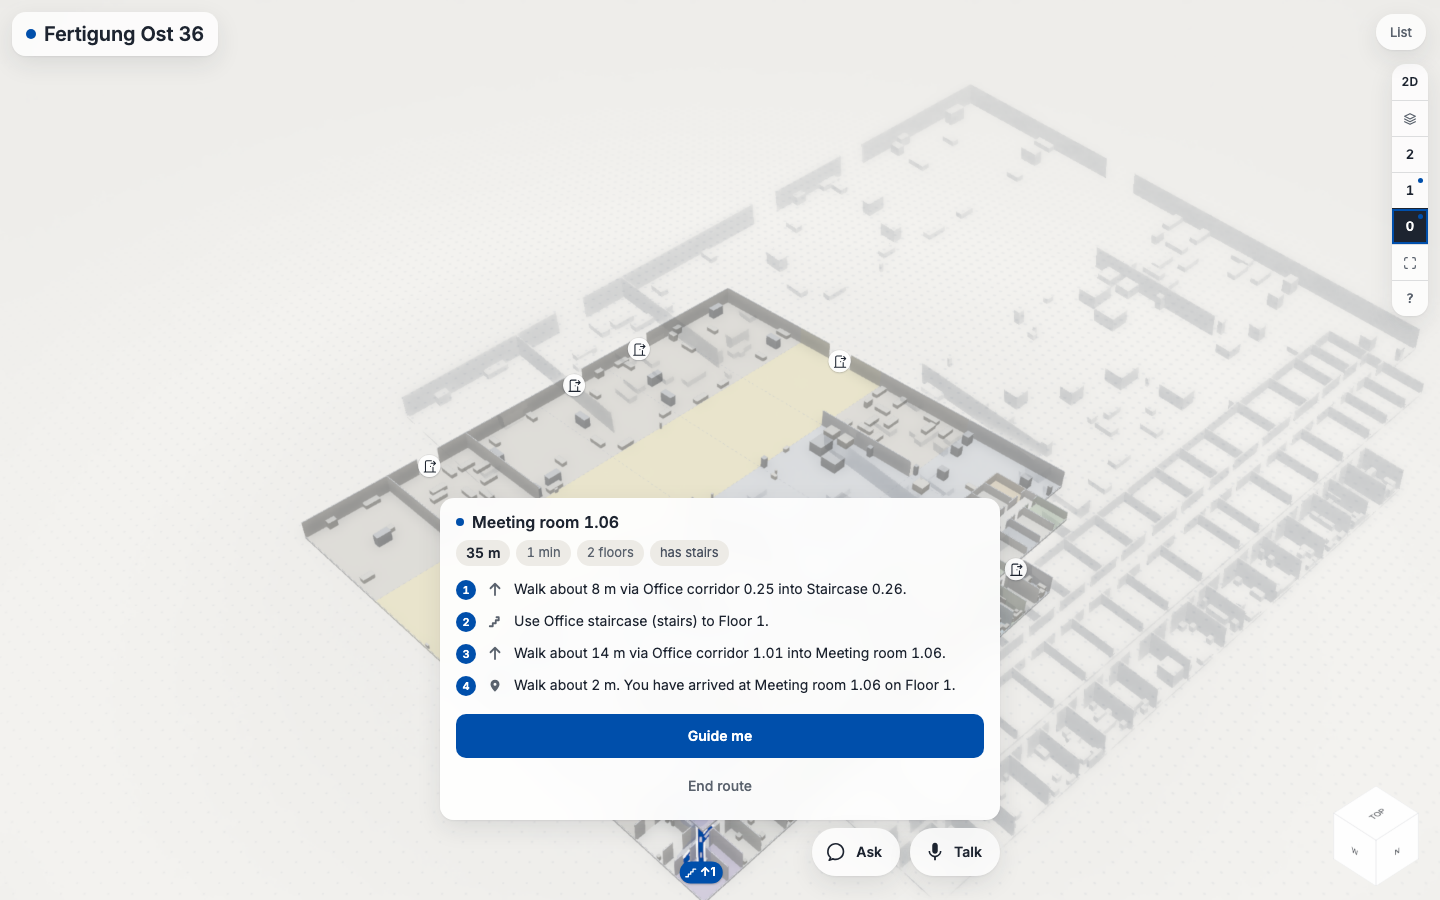
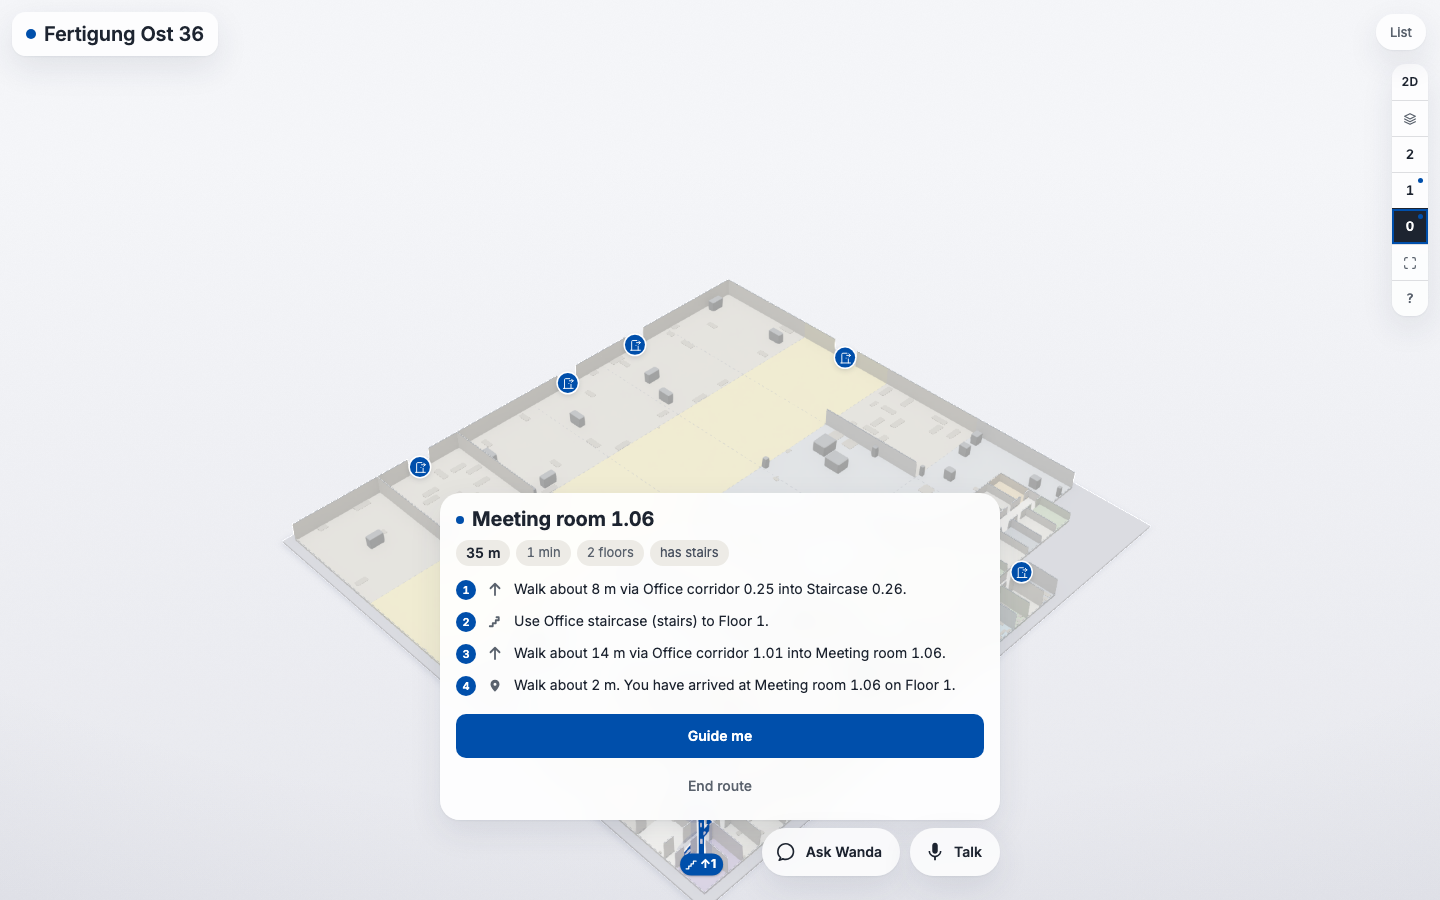
Labels as halo text and 3D POI pins, softer cards; skip studio extras on software GL
- 3D room names are halo text without a box; only marked and tapped rooms keep a pill
- 3D POIs: 10 px coloured dot when far, 20 px badge with name from the mid tier
- Soft shadow lies on the top route floor; software WebGL keeps the cheap lights and no baked shadow
- Larger card radius, diffuse float shadow, bigger route title; phone close button as grey circle
- ui_shots.py also captures the phone in 3D; refresh twin/docs/ui-after

diff --git a/twin/src/scene/Labels.tsx b/twin/src/scene/Labels.tsx
@@ -26,8 +26,15 @@ const ZONE_COUNT = 6;
 const FIT_OVERFLOW = 1.15; // a name may run 15 % past its room's width
 const CHAR_PX = 7.0; // average glyph width of the 12 px semibold label font (Inter)
 const LABEL_H_PX = 16;
-const PILL_PAD_PX = 8; // horizontal padding of a pill label (each side); 3D labels and marked rooms are pills
+const PILL_PAD_PX = 8; // horizontal padding of a pill label (each side); marked and tapped rooms are pills
 const PILL_H_PX = 20; // a pill's height (16 px line plus 2 px padding above and below)
+const HALO_PAD_PX = 2; // 3D room names are halo text (no box): the halo reaches about 2 px past the glyphs
+/** 3D points of interest (Apple Maps style): a small coloured dot in the overview, from the mid tier on a round badge
+ * with its glyph and the name beside it (POI_TEXT_KINDS only). Sizes must match .poi-pin in poiIcons.css. */
+const POI_DOT_PX = 10;
+const POI_BADGE_3D_PX = 20;
+const POI_TEXT_GAP_PX = 4;
+const POI_TEXT_KINDS: ReadonlySet<PoiKind> = new Set(["lift", "stairs", "toilet"]);
 const GAP_PX = 4; // free space kept around every label and badge
 const THING_LIFT_PX = 9; // a thing's name sits just above its shape, never on it
 const ROUTE_CLEAR_PX = 7; // half the route line width plus a margin: room names never sit on the route
@@ -402,16 +409,22 @@ export function Labels({ floor, model, y, limit, flat = false }: Props) {
       if (item.kind === "door" || item.kind === "tag") continue; // doors after the second lines, below
       if ((marks.has(item.id) && !(item.kind === "poi" && item.closed)) || replaced.has(item.id)) continue; // a closed glyph always shows
       const text = item.kind === "room" ? item.space.name : item.kind === "thing" ? item.asset.name : item.kind === "area" ? item.area.name : "";
-      // 3D: every label is a pill (padding and a taller box); 2D: plain halo text on the plan
-      const pillPad = flat || item.kind === "poi" ? 0 : PILL_PAD_PX;
-      const halfW = (item.kind === "poi" ? POI_PX / 2 : (text.length * (item.kind === "area" ? AREA_CHAR_PX : CHAR_PX)) / 2) + pillPad;
-      const halfH = item.kind === "poi" ? POI_PX / 2 : item.kind === "area" ? AREA_H_PX / 2 + (flat ? 0 : 2) : flat ? LABEL_H_PX / 2 : PILL_H_PX / 2;
+      // Halo text in both views (3D keeps a 2 px margin for the halo); 3D symbols are a dot or a badge with a name.
+      const pillPad = flat || item.kind === "poi" ? 0 : HALO_PAD_PX;
+      const poi3d = !flat && item.kind === "poi" ? poiLayout3d(item, tier) : null;
+      const halfW = poi3d ? poi3d.halfW : (item.kind === "poi" ? POI_PX / 2 : (text.length * (item.kind === "area" ? AREA_CHAR_PX : CHAR_PX)) / 2) + pillPad;
+      const halfH = poi3d ? poi3d.size / 2 : item.kind === "poi" ? POI_PX / 2 : item.kind === "area" ? AREA_H_PX / 2 + (flat ? 0 : 2) : LABEL_H_PX / 2;
       // An area name may also move up or down a little (inside the area) to make way for a symbol.
       const shifts = item.kind === "area" ? [0, AREA_SHIFT_PX, -AREA_SHIFT_PX] : [0];
       for (const shift of shifts) {
         const point: Point = shift ? [item.point[0], item.point[1] - shift * scale] : item.point;
         if (item.kind === "area" && shift && !item.area.polygons.some((polygon) => insidePolygon(point, polygon))) continue;
         const box = boxOf(point, halfW, halfH, item.kind === "thing" ? THING_LIFT_PX : 0);
+        if (poi3d) {
+          // the badge sits on the point, its name to the right: shift the box so it covers both and nothing else
+          box.x0 += poi3d.shift;
+          box.x1 += poi3d.shift;
+        }
         if (kept.some((other) => overlaps(box, other))) continue;
         if ((item.kind === "room" || item.kind === "area") && selectedPx && boxOnPolygon(box, selectedPx)) continue;
         if ((item.kind === "room" || item.kind === "area" || (item.kind === "thing" && !item.landmark)) && onRoute(box)) continue; // landmarks keep their name on the route
@@ -507,9 +520,13 @@ export function Labels({ floor, model, y, limit, flat = false }: Props) {
           </Html>
         ) : (
           <Html key={`poi-${item.id}`} position={[item.point[0], 0, -item.point[1]]} center zIndexRange={[3, 0]} style={{ pointerEvents: "none" }}>
-            <div className="zoom-fade" data-zoom-kind={`poi-${item.poi}`} data-poi-space={item.id}>
-              <PoiBadge kind={item.poi} title={item.title} closed={item.closed} />
-            </div>
+            {flat ? (
+              <div className="zoom-fade" data-zoom-kind={`poi-${item.poi}`} data-poi-space={item.id}>
+                <PoiBadge kind={item.poi} title={item.title} closed={item.closed} />
+              </div>
+            ) : (
+              <PoiPin item={item} tier={tier} />
+            )}
           </Html>
         ),
       )}
@@ -544,5 +561,26 @@ function RoomLabel({ item, mark, flat, selected }: { item: Extract<Item, { kind:
         {item.space.name}
       </div>
     </Html>
+  );
+}
+
+/** 3D symbol layout: dot (far) or badge (mid, near), and the name beside the badge for the sought-after kinds. `halfW`
+ * and `shift` describe the collision box relative to the point (badge centred on it, name to the right). */
+function poiLayout3d(item: Extract<Item, { kind: "poi" }>, tier: MapTier): { size: number; text: string; halfW: number; shift: number } {
+  const badge = tier !== "far" || item.closed;
+  const size = badge ? POI_BADGE_3D_PX : POI_DOT_PX;
+  const text = badge && !item.closed && POI_TEXT_KINDS.has(item.poi) && item.title ? item.title : "";
+  const textW = text ? POI_TEXT_GAP_PX + text.length * CHAR_PX : 0;
+  return { size, text, halfW: (size + textW) / 2, shift: textW / 2 };
+}
+
+/** A 3D point of interest: a coloured dot, or a round badge with its glyph and the name beside it (Apple Maps style). */
+function PoiPin({ item, tier }: { item: Extract<Item, { kind: "poi" }>; tier: MapTier }) {
+  const { size, text } = poiLayout3d(item, tier);
+  return (
+    <div className={`poi-pin poi-pin-${item.poi} ${size === POI_DOT_PX ? "poi-pin-dot" : ""} zoom-fade`} data-zoom-kind={`poi-${item.poi}`} data-poi-space={item.id}>
+      <PoiBadge kind={item.poi} title={item.title} closed={item.closed} />
+      {text && <span className="label label-halo poi-pin-name">{text}</span>}
+    </div>
   );
 }

diff --git a/twin/src/scene/Scene.tsx b/twin/src/scene/Scene.tsx
@@ -17,7 +17,7 @@ import { OpeningMarks } from "./OpeningMarks";
 import { RouteLine } from "./RouteLine";
 import { FloorOutline, floorLayout, floorRoles, routeFloorIds } from "./floorVisibility";
 import { Things } from "./Things";
-import { Plinth, StudioLight, StudioShadows } from "./Studio";
+import { Plinth, StudioLight, StudioShadows, useSoftwareGl } from "./Studio";
 import { openingEditsOf } from "./geometry";
 
 const NEAR_THINGS_LIMIT = 6000;
@@ -35,6 +35,7 @@ function Building({ model }: { model: BuildingModel }) {
   const viewMode = useTwin((s) => s.viewMode);
   const worker = profile === "worker";
   const flat = viewMode === "2d";
+  const software = useSoftwareGl();
 
   const focused = focusedFloorId ?? model.floors[0]?.id ?? null;
   // Floor rule (floorVisibility.tsx): active floor full, floors below as outlines, floors above hidden; a route over
@@ -53,6 +54,7 @@ function Building({ model }: { model: BuildingModel }) {
   const route = state?.route ?? null;
   // The soft shadow is baked again only when what casts it changes (floor, floor mode, route floors, things, doors).
   const bakeKey = `${model.building.key}:${focused}:${floorMode}:${thingsMode}:${routeFloorsKey}:${JSON.stringify(openingEditsOf(state))}`;
+  const shadowFloor = routeFloors ? routeFloors.reduce((top, id) => (floorY(id) > floorY(top) ? id : top), routeFloors[0]) : focused;
   const guideSegments = state?.guide?.active ? state.guide.leg.segments : null;
 
   return (
@@ -70,7 +72,8 @@ function Building({ model }: { model: BuildingModel }) {
           </FloorRise>
         );
       })}
-      {!flat && !worker && focused && <StudioShadows model={model} y={floorY(focused)} bakeKey={bakeKey} />}
+      {/* the shadow lies on the top full floor: a floor stacked above would throw its slab over the one below */}
+      {!flat && !worker && !software && shadowFloor && <StudioShadows model={model} y={floorY(shadowFloor)} bakeKey={bakeKey} />}
       {/* No see-through stair and lift shafts any more: a multi-floor route draws its vertical run (RouteLine). */}
       <RouteLine route={route} guideSegments={guideSegments} model={model} floorY={floorY} onlyFloor={routeFloors ? null : focused} reducedMotion={reducedMotion} flat={flat} worker={worker} />
       <Markers
@@ -88,6 +91,21 @@ function Building({ model }: { model: BuildingModel }) {
       <OpeningMarks model={model} state={state} floorY={floorY} visibleFloors={visibleFloors} />
       <CameraRig model={model} floorY={floorY} floorTop={floorTop} topY={topY} />
     </group>
+  );
+}
+
+/** Planner (3D): studio light from an environment map plus a low sky dome as a safety net. Phone, 2D and software
+ * WebGL: the cheap lights (a bright sky dome, a steep key light, a cool fill). */
+function Lights({ studio, centre, size }: { studio: boolean; centre: [number, number, number]; size: number }) {
+  const software = useSoftwareGl();
+  const full = studio && !software;
+  return (
+    <>
+      {full && <StudioLight />}
+      <hemisphereLight args={[COLOURS.sky, COLOURS.groundLight, full ? 0.6 : 2.1]} />
+      {!full && <directionalLight position={[centre[0] + size * 0.6, size * 1.6, centre[2] + size * 0.4]} intensity={0.9} color={COLOURS.sky} />}
+      {!full && <directionalLight position={[centre[0] - size * 0.8, size * 0.5, centre[2] - size * 0.6]} intensity={0.6} color={COLOURS.fill} />}
+    </>
   );
 }
 
@@ -159,12 +177,7 @@ export function Scene() {
       )}
       {flat && <color attach="background" args={[COLOURS.plan]} />}
       {!flat && <fog attach="fog" args={[COLOURS.studioBottom, size * 3, size * 10]} />}
-      {/* Planner (3D): studio light from an environment map plus a low sky dome as a safety net. Phone and 2D: the
-          cheap lights (a bright sky dome, a steep key light, a cool fill). */}
-      {!flat && !worker && <StudioLight />}
-      <hemisphereLight args={[COLOURS.sky, COLOURS.groundLight, flat || worker ? 2.1 : 0.6]} />
-      {(flat || worker) && <directionalLight position={[centre[0] + size * 0.6, size * 1.6, centre[2] + size * 0.4]} intensity={0.9} color={COLOURS.sky} />}
-      {(flat || worker) && <directionalLight position={[centre[0] - size * 0.8, size * 0.5, centre[2] - size * 0.6]} intensity={0.6} color={COLOURS.fill} />}
+      <Lights studio={!flat && !worker} centre={centre} size={size} />
       <PerformanceMonitor
         flipflops={4}
         bounds={() => [40, 58]}

diff --git a/twin/src/styles.css b/twin/src/styles.css
@@ -91,16 +91,23 @@ button.x:hover { color: var(--text); background: transparent; }
 .overlay { position: absolute; inset: 0; display: grid; place-items: center; background: rgba(246, 245, 242, 0.7); z-index: 5; pointer-events: none; }
 .overlay.error { color: var(--danger); pointer-events: auto; }
 
-/* labels and chips inside the scene (3D): white pills with a soft shadow, semibold name */
+/* labels inside the scene (3D, Apple Maps style): semibold ink text with a paper halo, no box. Only the tapped room
+   and the rooms with a marker (route ends, "you are here") are pills. */
 .label {
-  font-size: 12px; line-height: 16px; font-weight: 600; color: var(--ink); background: var(--glass-strong); font-variant-numeric: tabular-nums;
-  border: 0; border-radius: var(--radius-pill); padding: 2px 8px; white-space: nowrap;
-  box-shadow: 0 1px 2px rgba(29, 36, 48, 0.14), 0 0 0 0.5px rgba(29, 36, 48, 0.05);
+  font-size: 12px; line-height: 16px; font-weight: 600; color: var(--ink); background: transparent; font-variant-numeric: tabular-nums;
+  border: 0; border-radius: var(--radius-pill); padding: 0; white-space: nowrap; box-shadow: none;
   transition: opacity var(--t-fast);
 }
-.label-connector { background: var(--paper-2); }
+/* 3D: rooms with a marker float as a white card pill above it */
+.label.label-marked {
+  background: var(--surface); padding: 2px 8px; text-shadow: none;
+  box-shadow: 0 1px 2px rgba(29, 36, 48, 0.12), 0 4px 12px rgba(29, 36, 48, 0.1);
+}
 /* the tapped room (both views): ink pill, white text */
-.label.label-selected, .label.label-plan.label-selected { background: var(--ink); color: var(--surface); text-shadow: none; padding: 2px 9px; }
+.label.label-selected, .label.label-plan.label-selected {
+  background: var(--ink); color: var(--surface); text-shadow: none; padding: 2px 9px;
+  box-shadow: 0 1px 2px rgba(29, 36, 48, 0.2), 0 4px 12px rgba(29, 36, 48, 0.14);
+}
 /* 2D: rooms with a marker (route ends, "you are here") keep a pill so they stand out from the plain plan text */
 .label.label-plan.label-marked {
   background: var(--glass-strong); border-radius: var(--radius-pill); padding: 2px 8px; text-shadow: none;

diff --git a/twin/src/scene/Studio.tsx b/twin/src/scene/Studio.tsx
@@ -1,6 +1,7 @@
 import { memo, useEffect, useLayoutEffect, useMemo, useRef, useState } from "react";
 import * as THREE from "three";
 import { RoundedBoxGeometry } from "three/examples/jsm/geometries/RoundedBoxGeometry.js";
+import { useThree } from "@react-three/fiber";
 import { AccumulativeShadows, Environment, Lightformer, RandomizedLight } from "@react-three/drei";
 import { boundsOf, type BuildingModel } from "../model/model";
 import { COLOURS } from "../model/palette";
@@ -120,6 +121,23 @@ export function Plinth({ model }: { model: BuildingModel }) {
   );
 }
 
+const softwareCache = new WeakMap<object, boolean>();
+
+/** Whether WebGL runs on a software rasterizer (SwiftShader, llvmpipe: headless browsers, VMs, blocklisted GPUs).
+ * There a frame costs seconds, so the studio keeps to the cheap lights and skips the baked shadows. */
+export function useSoftwareGl(): boolean {
+  const gl = useThree((s) => s.gl);
+  let software = softwareCache.get(gl);
+  if (software === undefined) {
+    const context = gl.getContext();
+    const info = context.getExtension("WEBGL_debug_renderer_info");
+    const renderer = info ? String(context.getParameter(info.UNMASKED_RENDERER_WEBGL)) : "";
+    software = /swiftshader|llvmpipe|software/i.test(renderer);
+    softwareCache.set(gl, software);
+  }
+  return software;
+}
+
 /** Studio light for the planner (3D): a large softbox above the front, a rim light behind, a weak fill, baked once
  * into an environment map. White surfaces stay white; the shape comes from the gradients, not from dark faces. */
 export function StudioLight() {
@@ -200,7 +218,7 @@ function BuildingLight({ size, centre }: { size: number; centre: [number, number
         size={size * 0.75 + PLINTH_MARGIN_M + 2}
         far={size * 4}
         mapSize={1024}
-        bias={0.0005}
+        bias={0.002}
       />
     </group>
   );

diff --git a/twin/src/ui/Card.css b/twin/src/ui/Card.css
@@ -1,6 +1,6 @@
 /* ===== Card (owner: card/position session). Uses the base tokens from styles.css. */
 .card {
-  position: relative; padding: 14px 16px; border-radius: var(--radius); background: var(--glass-strong); -webkit-backdrop-filter: blur(var(--blur)) saturate(1.2); backdrop-filter: blur(var(--blur)) saturate(1.2); border: 0; box-shadow: var(--shadow-float);
+  position: relative; padding: 14px 16px; border-radius: var(--radius-lg); background: var(--glass-strong); -webkit-backdrop-filter: blur(var(--blur)) saturate(1.2); backdrop-filter: blur(var(--blur)) saturate(1.2); border: 0; box-shadow: var(--shadow-float);
   animation: card-in var(--t-base);
 }
 @keyframes card-in { from { opacity: 0; transform: translateY(8px); } to { opacity: 1; transform: none; } }
@@ -77,7 +77,8 @@
 
 /* route card: destination, chips, numbered steps, Guide me + End route */
 .route-head { display: flex; align-items: center; gap: 8px; }
-.route-dest { font-size: 16px; font-weight: 600; line-height: 1.3; min-width: 0; overflow-wrap: anywhere; }
+/* a big bold title like a map app's place sheet */
+.route-dest { font-size: 20px; font-weight: 700; letter-spacing: -0.01em; line-height: 1.25; min-width: 0; overflow-wrap: anywhere; }
 .route-chips { display: flex; flex-wrap: wrap; gap: 6px; margin-top: 8px; }
 .route-chip { padding: 3px 10px; border-radius: var(--radius-pill); background: var(--paper-2); font-size: 13px; font-variant-numeric: tabular-nums; color: var(--ink-2); }
 .route-chip b { font-size: 14px; font-weight: 600; color: var(--text); }

diff --git a/twin/src/scene/poiIcons.css b/twin/src/scene/poiIcons.css
@@ -46,3 +46,21 @@
 @keyframes zoom-fade-in { from { opacity: 0; } }
 .zoom-fade { animation: zoom-fade-in 180ms ease-out; }
 @media (prefers-reduced-motion: reduce) { .zoom-fade { animation: none; } }
+
+/* 3D (Apple Maps style): no white chips. A 10 px dot in the symbol's colour in the overview, from the mid tier on a
+   20 px round badge with a white glyph and the name beside it (POI_DOT_PX / POI_BADGE_3D_PX in Labels.tsx). Colours:
+   signal blue for the ways in and up (entrances, lifts, stairs), the safety colours for safety, ink for the rest. */
+.poi-pin { --poi: var(--ink); position: relative; width: 20px; height: 20px; display: flex; align-items: center; justify-content: center; }
+.poi-pin-entrance, .poi-pin-lift, .poi-pin-stairs { --poi: var(--signal); }
+.poi-pin-extinguisher { --poi: var(--safety-red); }
+.poi-pin-firstaid { --poi: var(--safety-green); }
+.poi-pin .poi-badge {
+  width: 20px; height: 20px; background: var(--poi); color: var(--surface);
+  box-shadow: 0 0 0 1.5px var(--surface), 0 2px 6px rgba(29, 36, 48, 0.22);
+}
+.poi-pin .poi-badge svg { width: 13px; height: 13px; }
+.poi-pin.poi-pin-dot { width: 10px; height: 10px; }
+.poi-pin.poi-pin-dot .poi-badge { width: 10px; height: 10px; box-shadow: 0 0 0 1.5px var(--surface), 0 1px 3px rgba(29, 36, 48, 0.25); }
+.poi-pin.poi-pin-dot .poi-badge svg { display: none; }
+.poi-pin .poi-badge.poi-closed { background: var(--surface); color: var(--ink-2); }
+.poi-pin-name { position: absolute; left: calc(100% + 4px); top: 50%; transform: translateY(-50%); }

diff --git a/twin/src/ui/Phone.css b/twin/src/ui/Phone.css
@@ -89,6 +89,10 @@ html, body { overscroll-behavior: none; -webkit-text-size-adjust: 100%; }
 .phone-sheet .sheet-grip { flex: none; height: 26px; display: flex; justify-content: center; align-items: center; touch-action: none; cursor: grab; }
 .phone-sheet .sheet-handle { width: 64px; min-height: 26px; height: 26px; padding: 0; border: 0; background: transparent; position: relative; }
 .phone-sheet .sheet-handle::after { content: ""; position: absolute; left: 14px; right: 14px; top: 10px; height: 4px; border-radius: 2px; background: var(--hairline-strong); }
+/* the close button: a small grey circle (the 44 px tap target stays) */
+.phone-sheet button.x { position: relative; isolation: isolate; color: var(--ink-2); font-size: 18px; }
+.phone-sheet button.x::before { content: ""; position: absolute; inset: 8px; border-radius: 50%; background: var(--paper-2); z-index: -1; }
+.phone-sheet .route-dest { font-size: 22px; }
 .phone-sheet .sheet-body { overflow-y: auto; overscroll-behavior: contain; -webkit-overflow-scrolling: touch; min-height: 0; }
 /* the card inside the sheet: the sheet is the surface */
 .phone-sheet .card { background: transparent; border: 0; box-shadow: none; padding: 0 14px 12px; border-radius: 0; }

diff --git a/twin/src/styles/tokens.css b/twin/src/styles/tokens.css
@@ -22,7 +22,7 @@
   --glass: rgba(255, 255, 255, 0.8);
   --glass-strong: rgba(255, 255, 255, 0.92); /* text-heavy sheets and lists */
   --blur: 16px;
-  --shadow-float: 0 1px 2px rgba(29, 36, 48, 0.06), 0 8px 24px rgba(29, 36, 48, 0.1);
+  --shadow-float: 0 1px 2px rgba(29, 36, 48, 0.05), 0 12px 32px rgba(40, 46, 80, 0.1); /* soft, diffuse: cards float */
   --shadow-soft: 0 1px 2px rgba(29, 36, 48, 0.05), 0 4px 12px rgba(29, 36, 48, 0.08);
 
   /* the one signal colour: route, primary button, selection (white on it is 8.3:1) */
@@ -52,7 +52,7 @@
   /* shape: soft corners, pills for chips and round buttons */
   --radius: 14px; /* cards, panels */
   --radius-sm: 10px; /* buttons, inputs */
-  --radius-lg: 18px; /* sheets */
+  --radius-lg: 20px; /* cards and sheets */
   --radius-pill: 999px;
 
   /* type: Inter (self-hosted, src/main.tsx), tabular numerals everywhere; scale 12 / 14 / 16 / 20 / 28 */

diff --git a/twin/src/scene/RouteLine.tsx b/twin/src/scene/RouteLine.tsx
@@ -17,9 +17,9 @@ const DRAW_IN_S = 1.4;
 /** Route line width on screen (px), 2D and 3D, and its white casing on each side. */
 const LINE_PX = 6;
 const LINE_PX_3D = 5.5;
-const CASING_PX = 2;
+const CASING_PX = 1.5;
 /** A soft halo of the signal colour under the casing (px each side) and its opacity. */
-const HALO_PX = 7;
+const HALO_PX = 8;
 const HALO_OPACITY = 0.16;
 /** The travelling flow on the line: thin white dashes (px wide, metres long) that move at walking pace. */
 const FLOW_PX = 2.2;

diff --git a/scripts/ui_shots.py b/scripts/ui_shots.py
@@ -140,6 +140,11 @@ def main() -> None:
             set_route(page)
             settle(page)
             page.screenshot(path=str(out / "mobile-sheet.png"))
+            # the phone in 3D with the same route
+            store(page, "setViewMode('3d')")
+            store(page, "requestCamera({ kind: 'home' })")
+            settle(page)
+            page.screenshot(path=str(out / "mobile-3d.png"))
             phone.close()
             browser.close()
     finally:
@@ -149,7 +154,7 @@ def main() -> None:
     if errors:
         print("ERRORS:\n" + "\n".join(errors))
         raise SystemExit(1)
-    print(f"saved 4 screenshots to {out}")
+    print(f"saved 5 screenshots to {out}")
 
 
 if __name__ == "__main__":
